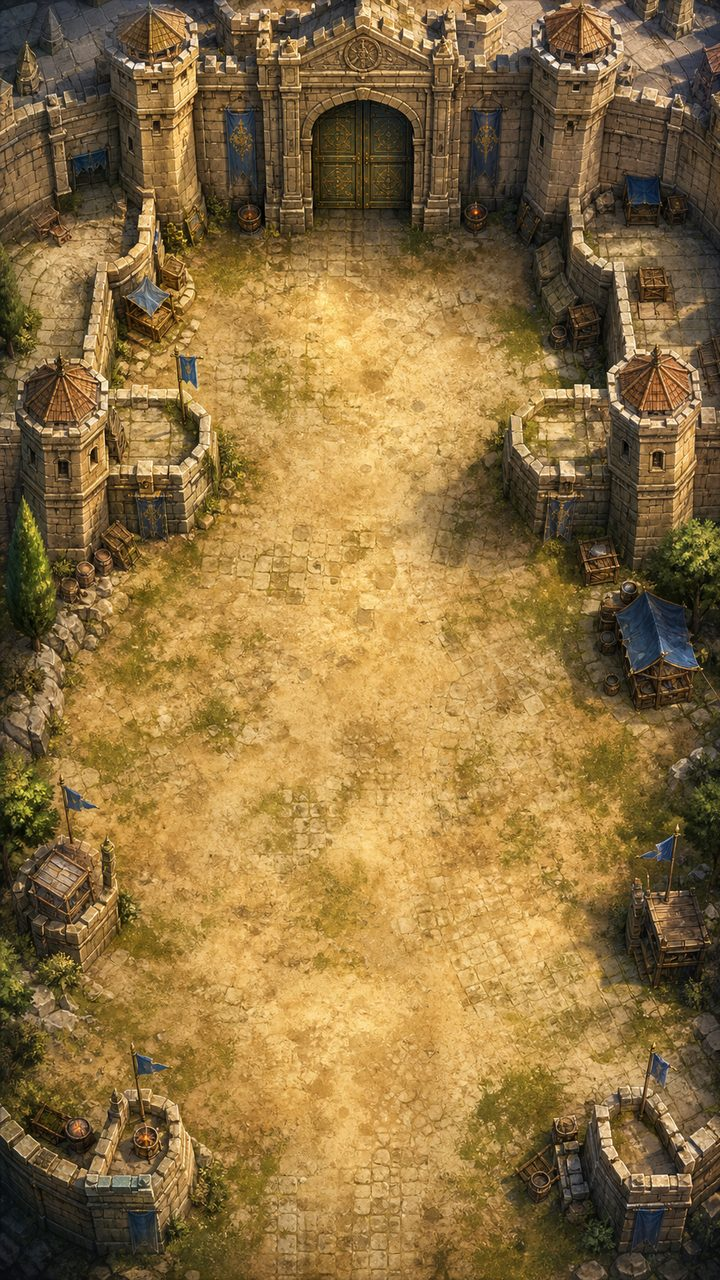
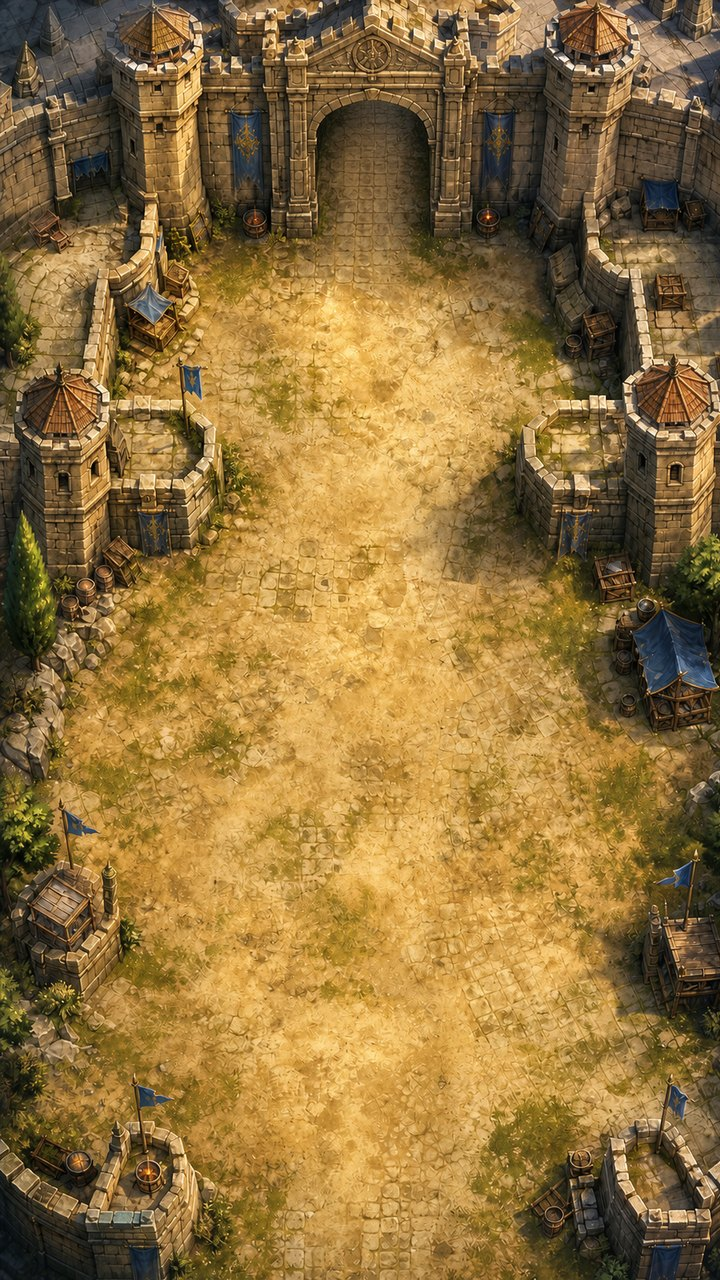
Improve Guardioes battle visuals

diff --git a/public/guardioes/js/scenes/battle.js b/public/guardioes/js/scenes/battle.js
@@ -18,6 +18,9 @@
   const SELL_REFUND = 0.7;
   const TARGETING_MODES = ['first', 'strong', 'close'];
   const TARGETING_LABELS = { first: 'Primeiro', strong: 'Mais Forte', close: 'Mais Perto' };
+  const TOWER_DISPLAY_SIZES = { archer: 92, fire: 94, trap: 104, banner: 104, ballista: 108, relic: 108 };
+  const ENEMY_DISPLAY_SIZES = { runner: 66, raider: 74, shield: 82, ram: 92, boss: 116 };
+  const HP_BAR_HEIGHT = 5;
 
   class BattleScene extends Phaser.Scene {
     constructor() { super('Battle'); }
@@ -199,7 +202,7 @@
 
       const g = this.add.graphics();
       const path = this.level.path;
-      const pathAlpha = hasMapArt ? 0.35 : 1;
+      const pathAlpha = hasMapArt ? 0.16 : 1;
       g.lineStyle(96, 0x8a6a45, pathAlpha);
       g.beginPath();
       g.moveTo(path[0].x, path[0].y);
@@ -321,7 +324,8 @@
         .setOrigin(0.5).setVisible(false).setInteractive({ useHandCursor: true });
       this.cancelBtn.on('pointerdown', () => this.cancelHeld());
       this.heldPreview.add([this.heldIcon, this.heldLabel, this.cancelBtn]);
-      this.previewMarker = this.add.image(0, 0, 'tex-valid-preview').setVisible(false).setDepth(50);
+      this.previewMarker = this.add.image(0, 0, 'tex-valid-preview').setVisible(false).setDepth(84).setAlpha(0.6);
+      this.previewGhost = this.add.image(0, 0, 'tex-defense-archer').setVisible(false).setDepth(86).setAlpha(0.82);
       this.rangeRing = this.add.image(0, 0, 'tex-range-ring').setVisible(false).setDepth(49).setAlpha(0.5);
 
       this.input.on('pointermove', p => this.updateHeldPreview(p));
@@ -354,6 +358,7 @@
       this.closeTowerPanel();
 
       this.heldIcon.setTexture(`tex-defense-${pick}`).setVisible(true);
+      this.heldIcon.setDisplaySize(58, 58);
       this.heldLabel.setText(D.DEFENSES[pick].name).setVisible(true);
       this.cancelBtn.setVisible(true);
       this.buyBtn.list[1].setText(`Comprar (${this.buyCost})`);
@@ -379,11 +384,37 @@
       this.heldLabel.setVisible(false);
       this.cancelBtn.setVisible(false);
       this.previewMarker.setVisible(false);
+      this.previewGhost.setVisible(false);
       this.rangeRing.setVisible(false);
     }
 
     rarityColorHex(rarity) {
       return '#' + D.RARITY[rarity].color.toString(16).padStart(6, '0');
+    }
+
+    towerDisplaySize(defenseId, level) {
+      const base = TOWER_DISPLAY_SIZES[defenseId] || 92;
+      return Math.round(base * (1 + (level - 1) * 0.13));
+    }
+
+    applyTowerDisplay(tower, stretchX, stretchY) {
+      const size = this.towerDisplaySize(tower.defenseId, tower.level);
+      tower.sprite.setDisplaySize(size, size);
+      const normalScaleX = tower.sprite.scaleX;
+      const normalScaleY = tower.sprite.scaleY;
+      if (stretchX || stretchY) {
+        tower.sprite.setScale(normalScaleX * (stretchX || 1), normalScaleY * (stretchY || 1));
+      }
+      return { normalScaleX, normalScaleY };
+    }
+
+    enemyDisplaySize(enemyId) {
+      return ENEMY_DISPLAY_SIZES[enemyId] || 74;
+    }
+
+    hpBarSpec(enemyId) {
+      const size = this.enemyDisplaySize(enemyId);
+      return { width: Math.round(size * 0.58), yOffset: Math.round(size * 0.55) };
     }
 
     // ---------- posicionamento ----------
@@ -422,11 +453,22 @@
     }
 
     updateHeldPreview(pointer) {
-      if (!this.held || this.paused) { if (!this.selectedTower) { this.previewMarker.setVisible(false); this.rangeRing.setVisible(false); } return; }
+      if (!this.held || this.paused) {
+        if (!this.selectedTower) { this.previewMarker.setVisible(false); this.previewGhost.setVisible(false); this.rangeRing.setVisible(false); }
+        return;
+      }
       const p = this.toWorldPoint(pointer);
       const def = D.DEFENSES[this.held.defenseId];
       const valid = this.isValidPlacement(p.x, p.y, this.held.defenseId);
-      this.previewMarker.setTexture(valid ? 'tex-valid-preview' : 'tex-invalid-preview').setPosition(p.x, p.y).setVisible(true);
+      const previewSize = this.towerDisplaySize(this.held.defenseId, this.held.level);
+      this.previewMarker.setTexture(valid ? 'tex-valid-preview' : 'tex-invalid-preview').setPosition(p.x, p.y).setDisplaySize(74, 74).setVisible(true);
+      this.previewGhost
+        .setTexture(`tex-defense-${this.held.defenseId}`)
+        .setPosition(p.x, p.y)
+        .setDisplaySize(previewSize, previewSize)
+        .setAlpha(valid ? 0.86 : 0.58)
+        .setTint(valid ? 0xffffff : 0xff7777)
+        .setVisible(true);
       const radius = def.auraRadius ? this.towerStat(this.held.defenseId, 'auraRadius') : (def.range ? this.towerStat(this.held.defenseId, 'range') * (1 + (this.effects.rangeMult || 0)) : 0);
       if (radius) {
         this.rangeRing.setPosition(p.x, p.y).setDisplaySize(radius * 2, radius * 2).setVisible(true);
@@ -472,8 +514,8 @@
       const def = D.DEFENSES[defenseId];
       const sprite = this.add.image(x, y, `tex-defense-${defenseId}`);
       const tower = { defenseId, level, x, y, sprite, lastFire: 0, targetCooldowns: new Map(), targeting: targeting || 'first', auraRing: null };
-      const baseScale = 1 + (level - 1) * 0.12;
-      sprite.setScale(baseScale);
+      sprite.setDepth(88);
+      const normal = this.applyTowerDisplay(tower);
       if (def.auraRadius) {
         const r = this.towerStat(defenseId, 'auraRadius') * (1 + (level - 1) * 0.15);
         tower.auraRing = this.add.circle(x, y, r, def.color, 0.07).setStrokeStyle(2, def.color, 0.35).setDepth(20);
@@ -481,8 +523,8 @@
       this.towers.push(tower);
       if (!silent) {
         // squash & stretch: achata no impacto e volta com overshoot (game-feel)
-        sprite.setScale(baseScale * 1.3, baseScale * 0.7);
-        this.tweens.add({ targets: sprite, scaleX: baseScale, scaleY: baseScale, duration: 220, ease: 'Back.Out' });
+        sprite.setScale(normal.normalScaleX * 1.3, normal.normalScaleY * 0.7);
+        this.tweens.add({ targets: sprite, scaleX: normal.normalScaleX, scaleY: normal.normalScaleY, duration: 220, ease: 'Back.Out' });
       }
     }
 
@@ -494,9 +536,8 @@
         return;
       }
       tower.level += 1;
-      const baseScale = 1 + (tower.level - 1) * 0.12;
-      tower.sprite.setScale(baseScale * 1.35, baseScale * 0.65);
-      this.tweens.add({ targets: tower.sprite, scaleX: baseScale, scaleY: baseScale, duration: 260, ease: 'Back.Out' });
+      const normal = this.applyTowerDisplay(tower, 1.35, 0.65);
+      this.tweens.add({ targets: tower.sprite, scaleX: normal.normalScaleX, scaleY: normal.normalScaleY, duration: 260, ease: 'Back.Out' });
       if (tower.auraRing) {
         const r = this.towerStat(tower.defenseId, 'auraRadius') * (1 + (tower.level - 1) * 0.15);
         tower.auraRing.setRadius(r);
@@ -603,16 +644,19 @@
       const def = D.ENEMIES[enemyId];
       const start = this.level.path[0];
       const sprite = this.physics.add.sprite(start.x, start.y, `tex-enemy-${enemyId}`);
+      const displaySize = this.enemyDisplaySize(enemyId);
+      sprite.setDepth(92).setDisplaySize(displaySize, displaySize);
       sprite.body.setAllowGravity(false);
       sprite.body.setCircle(sprite.width / 2.4, sprite.width * 0.08, sprite.height * 0.08);
       this.enemyGroup.add(sprite);
-      if (def.isBoss) sprite.setScale(1.15);
       // Escala geometrica por onda x multiplicador do nivel (pressao de upgrade constante)
       const hpMult = this.level.hpMult * Math.pow(D.HP_GROWTH, this.waveIndex);
       const hp = Math.round(def.hp * hpMult);
-      const hpBar = this.add.rectangle(start.x, start.y - 30, 40, 6, 0x2ecc71).setDepth(60);
+      const bar = this.hpBarSpec(enemyId);
+      const hpBack = this.add.rectangle(start.x, start.y - bar.yOffset, bar.width + 4, HP_BAR_HEIGHT + 2, 0x160f0b, 0.82).setDepth(104);
+      const hpBar = this.add.rectangle(start.x, start.y - bar.yOffset, bar.width, HP_BAR_HEIGHT, 0x35d16f, 0.95).setDepth(105);
       const enemy = {
-        id: enemyId, def, hp, maxHp: hp, sprite, hpBar,
+        id: enemyId, def, hp, maxHp: hp, sprite, hpBack, hpBar,
         pathIndex: 1, slowUntil: 0, slowFactor: 1
       };
       sprite.setData('ref', enemy);
@@ -673,14 +717,16 @@
           if (!path[e.pathIndex]) { this.enemyReachedEnd(e, i); continue; }
         }
         this.steerEnemy(e);
-        e.hpBar.setPosition(e.sprite.x, e.sprite.y - 30);
-        e.hpBar.width = 40 * Math.max(0, e.hp / e.maxHp);
+        const bar = this.hpBarSpec(e.id);
+        e.hpBack.setPosition(e.sprite.x, e.sprite.y - bar.yOffset);
+        e.hpBar.setPosition(e.sprite.x, e.sprite.y - bar.yOffset);
+        e.hpBar.width = bar.width * Math.max(0, e.hp / e.maxHp);
       }
     }
 
     enemyReachedEnd(e, index) {
       this.archiveHp = Math.max(0, this.archiveHp - 1);
-      e.sprite.destroy(); e.hpBar.destroy();
+      e.sprite.destroy(); e.hpBack.destroy(); e.hpBar.destroy();
       this.enemies.splice(index, 1);
       AUDIO.baseHit();
       UI.screenShake(this, 0.008, 200);
@@ -777,7 +823,7 @@
 
       const spr = this.projectileGroup.get(tower.x, tower.y - 20, texKey);
       if (!spr) return;
-      spr.setActive(true).setVisible(true).setTexture(texKey);
+      spr.setActive(true).setVisible(true).setTexture(texKey).setDepth(98);
       if (!spr.body) this.physics.world.enable(spr);
       spr.body.setAllowGravity(false);
       spr.body.reset(tower.x, tower.y - 20);
@@ -863,8 +909,9 @@
       // pop de morte: infla e some em vez de simplesmente sumir
       e.sprite.body.enable = false;
       this.enemies.splice(idx, 1);
+      e.hpBack.destroy();
       e.hpBar.destroy();
-      this.tweens.add({ targets: e.sprite, scale: e.sprite.scale * 1.45, alpha: 0, duration: 200, ease: 'Cubic.Out', onComplete: () => e.sprite.destroy() });
+      this.tweens.add({ targets: e.sprite, scaleX: e.sprite.scaleX * 1.45, scaleY: e.sprite.scaleY * 1.45, alpha: 0, duration: 200, ease: 'Cubic.Out', onComplete: () => e.sprite.destroy() });
       this.updateHud();
     }
 
